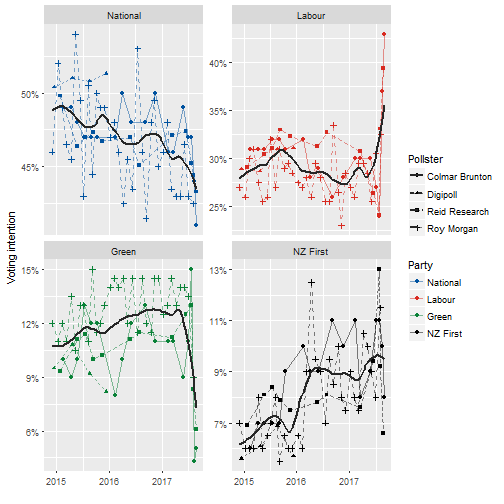
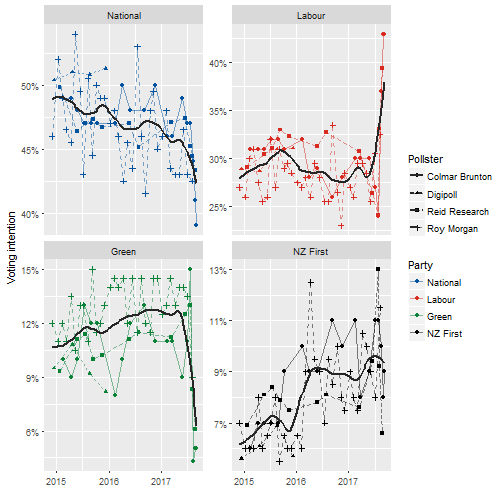
one more Colmar Brunton poll

diff --git a/README.md b/README.md
@@ -316,15 +316,15 @@ polls %>%
 ## # A tibble: 10 x 5
 ##            Party pundit_perc curia_perc pundit_seats curia_seats
 ##            <chr>       <dbl>      <dbl>        <dbl>       <dbl>
-##  1           ACT         0.5        0.5            1           1
+##  1           ACT         0.4        0.4            1           1
 ##  2  Conservative         0.2        0.2            0           0
-##  3         Green         7.3        5.9            9           7
-##  4        Labour        36.4       38.8           44          47
-##  5          Mana         0.1        0.1            0           0
-##  6         Maori         1.2        1.2            1           1
-##  7      National        43.3       42.7           52          52
-##  8      NZ First         8.9        8.4           11          10
-##  9           TOP         1.6        1.7            2           2
+##  3         Green         6.6        5.6            8           7
+##  4        Labour        38.4       40.3           46          49
+##  5          Mana         0.1        0.0            0           0
+##  6         Maori         1.3        1.3            2           2
+##  7      National        42.0       41.7           51          50
+##  8      NZ First         8.9        8.5           11          10
+##  9           TOP         1.7        1.7            2           2
 ## 10 United Future         0.1        0.1            0           0
 ```
 
